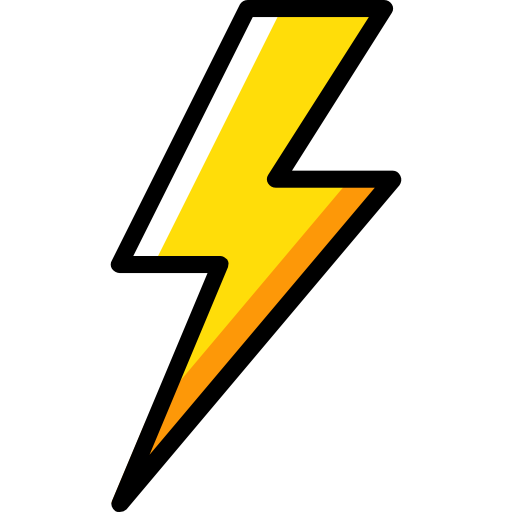
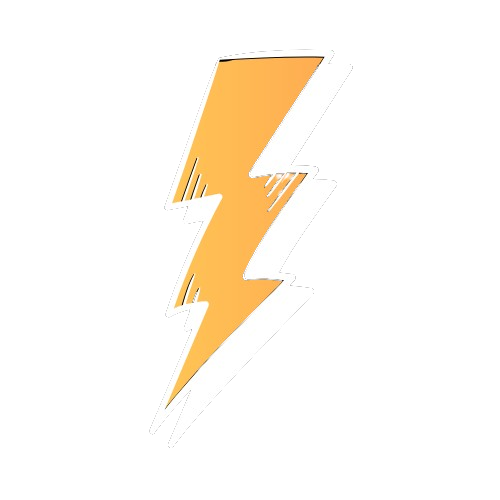
minor improvements

Changed region(s): [[0.21, 0.0, 0.78, 1.0]]

diff --git a/src/app/api/github/handler/route.tsx b/src/app/api/github/handler/route.tsx
@@ -9,7 +9,7 @@ export async function POST(req: NextRequest) {
     repoName: body.repository.full_name,
     listenerType: "issues",
   };
-  if (!body?.issue) {
+  if (!body.issue && body?.hook?.events?.includes("push")) {
     GitHubData.listenerType = "push";
   }
 
@@ -26,7 +26,7 @@ export async function POST(req: NextRequest) {
         WorkflowName: "No Workflow Found",
         Success: false,
       });
-
+      console.log("he");
       return NextResponse.json(
         { message: "No Workflow Found" },
         { status: 404 }
@@ -53,30 +53,31 @@ export async function POST(req: NextRequest) {
         WorkflowName: "No User Found",
         Success: false,
       });
-
+      console.log("she");
       return NextResponse.json({ message: "No User Found" }, { status: 404 });
     }
 
-    if (user[0].Credits < 1) {
-      await db.insert(Logs).values({
-        LogMessage: `User ${user[0].Username} has Insufficient Credits`,
-        WorkflowName: workflow[0].WorkflowName,
-        Success: false,
-      });
+    if (!body?.hook) {
+      if (user[0].Credits < 1) {
+        await db.insert(Logs).values({
+          LogMessage: `User ${user[0].Username} has Insufficient Credits`,
+          WorkflowName: workflow[0].WorkflowName,
+          Success: false,
+        });
 
-      return NextResponse.json(
-        { message: "Insufficient Credits" },
-        { status: 402 }
-      );
+        return NextResponse.json(
+          { message: "Insufficient Credits" },
+          { status: 402 }
+        );
+      }
+
+      await db
+        .update(Users)
+        .set({
+          Credits: user[0].Credits - 1,
+        })
+        .execute();
     }
-
-    await db
-      .update(Users)
-      .set({
-        Credits: user[0].Credits - 1,
-      })
-      .execute();
-
     const slackAccessToken = user[0].SlackAccessToken;
     const asanaRefreshToken = user[0].AsanaRefreshToken;
 

diff --git a/src/app/api/clerk-webhooks/delete-user/route.tsx b/src/app/api/clerk-webhooks/delete-user/route.tsx
@@ -56,6 +56,37 @@ export async function POST(req: Request) {
         .execute();
 
       for (const workflow of user[0].Workflows) {
+        const existing = await db
+          .select()
+          .from(Workflows)
+          .where(eq(Workflows.WorkflowName, workflow))
+          .execute();
+        if (existing.length === 0) {
+          continue;
+        }
+        if (existing[0].HookID) {
+          type github = {
+            repoName: string;
+            listennerType: string;
+          };
+          const github: github = existing[0].GitHubNode as github;
+          try {
+            const response = await fetch(
+              "https://localhost:3000/api/github/webhooks/delete",
+              {
+                method: "DELETE",
+                headers: {
+                  "Content-Type": "application/json",
+                },
+                body: JSON.stringify({
+                  repo: github.repoName,
+                  hookId: existing[0].HookID,
+                  id: evt.data.id,
+                }),
+              }
+            );
+          } catch (error) {}
+        }
         await db
           .delete(Workflows)
           .where(eq(Workflows.WorkflowName, workflow))

diff --git a/src/app/layout.tsx b/src/app/layout.tsx
@@ -4,6 +4,7 @@ import { ClerkProvider } from "@clerk/nextjs";
 import { dark } from "@clerk/themes";
 import { Toaster } from "@/components/ui/toaster";
 import { ThemeProvider } from "@/lib/theme-provider";
+import Image from "next/image";
 
 export const metadata: Metadata = {
   title: "Quirk",
@@ -43,9 +44,17 @@ export default function RootLayout({
       }}
     >
       <html lang="en">
-        <body className={"antialiased bg-black text-white "}>
-          <ThemeProvider>{children}</ThemeProvider>
-          <Toaster />
+        <body className="antialiased bg-black text-white">
+          <div className="hidden lg:flex">
+            <ThemeProvider>{children}</ThemeProvider>
+            <Toaster />
+          </div>
+          <div className="lg:hidden flex justify-center items-center w-screen h-screen flex-col space-y-5 p-3">
+            <Image src="/desktop.png" width={200} height={200} alt="desktop" />
+            <h3 className="text-xl font-semibold text-center">
+              Quirk V1 is Available Only on Desktop
+            </h3>
+          </div>
         </body>
       </html>
     </ClerkProvider>

diff --git a/src/app/api/github/webhooks/delete/route.tsx b/src/app/api/github/webhooks/delete/route.tsx
@@ -3,9 +3,14 @@ import { auth, clerkClient, currentUser } from "@clerk/nextjs/server";
 import { NextResponse } from "next/server";
 
 export async function DELETE(req: Request) {
-  const { userId } = await auth();
+  const { repo, hookId, id } = await req.json();
+  let userID = id;
+  if (!userID) {
+    const { userId } = await auth();
+    userID = userId;
+  }
 
-  if (!userId) {
+  if (!userID) {
     return NextResponse.json({ message: "User not found" });
   }
 
@@ -14,7 +19,7 @@ export async function DELETE(req: Request) {
 
   const clerkResponse: any = await clerkClient();
   const token = await clerkResponse.users.getUserOauthAccessToken(
-    userId,
+    userID,
     provider
   );
 
@@ -27,7 +32,6 @@ export async function DELETE(req: Request) {
     );
   }
 
-  const { repo, hookId } = await req.json();
   const slug = repo?.split("/").pop();
 
   if (!repo || !hookId) {

diff --git a/src/components/global/dashboard-navbar.tsx b/src/components/global/dashboard-navbar.tsx
@@ -19,15 +19,15 @@ const DashboardNavbar = async ({ credits }: Props) => {
     <header className="fixed top-0 right-0 p-5 left-0 w-full mb-5 bg-black h-24 z-40 flex items-center justify-between">
       <Link href="/">
         <aside className="flex items-center gap-[2px]">
-          <p className="text-4xl font-bold -mr-1">Qu</p>
+          <p className="text-4xl font-bold -mr-2">Qu</p>
           <Image
             src="/flash.png"
-            width={30}
-            height={30}
+            width={40}
+            height={40}
             alt="fuzzie logo"
             className="shadow-sm"
           />
-          <p className="text-4xl font-bold -ml-1">rk</p>
+          <p className="text-4xl font-bold -ml-2">rk</p>
         </aside>
       </Link>
 

diff --git a/src/components/global/navabar.tsx b/src/components/global/navabar.tsx
@@ -8,15 +8,15 @@ const Navbar = async (props: Props) => {
   return (
     <header className="fixed right-0 left-0 top-0 p-7 bg-black  z-[100] flex items-center justify-between">
       <aside className="flex items-center gap-[2px] text-white">
-        <p className="text-4xl font-bold -mr-1">Qu</p>
+        <p className="text-4xl font-bold -mr-2">Qu</p>
         <Image
           src="/flash.png"
-          width={30}
-          height={30}
+          width={40}
+          height={40}
           alt="fuzzie logo"
           className="shadow-sm"
         />
-        <p className="text-4xl font-bold -ml-1">rk</p>
+        <p className="text-4xl font-bold -ml-2">rk</p>
       </aside>
       <aside className="flex items-center gap-4">
         <Link

diff --git a/src/app/page.tsx b/src/app/page.tsx
@@ -33,11 +33,11 @@ export default function Home() {
           }
         >
           <Image
-            src={`/temp-banner.png`}
+            src={`/banner.png`}
             alt="hero"
-            height={720}
-            width={1400}
-            className="mx-auto rounded-2xl object-cover h-full object-left-top"
+            width={1920}
+            height={1080}
+            className="mx-auto rounded-2xl object-fill w-full h-full object-center"
             draggable={false}
           />
         </ContainerScroll>
